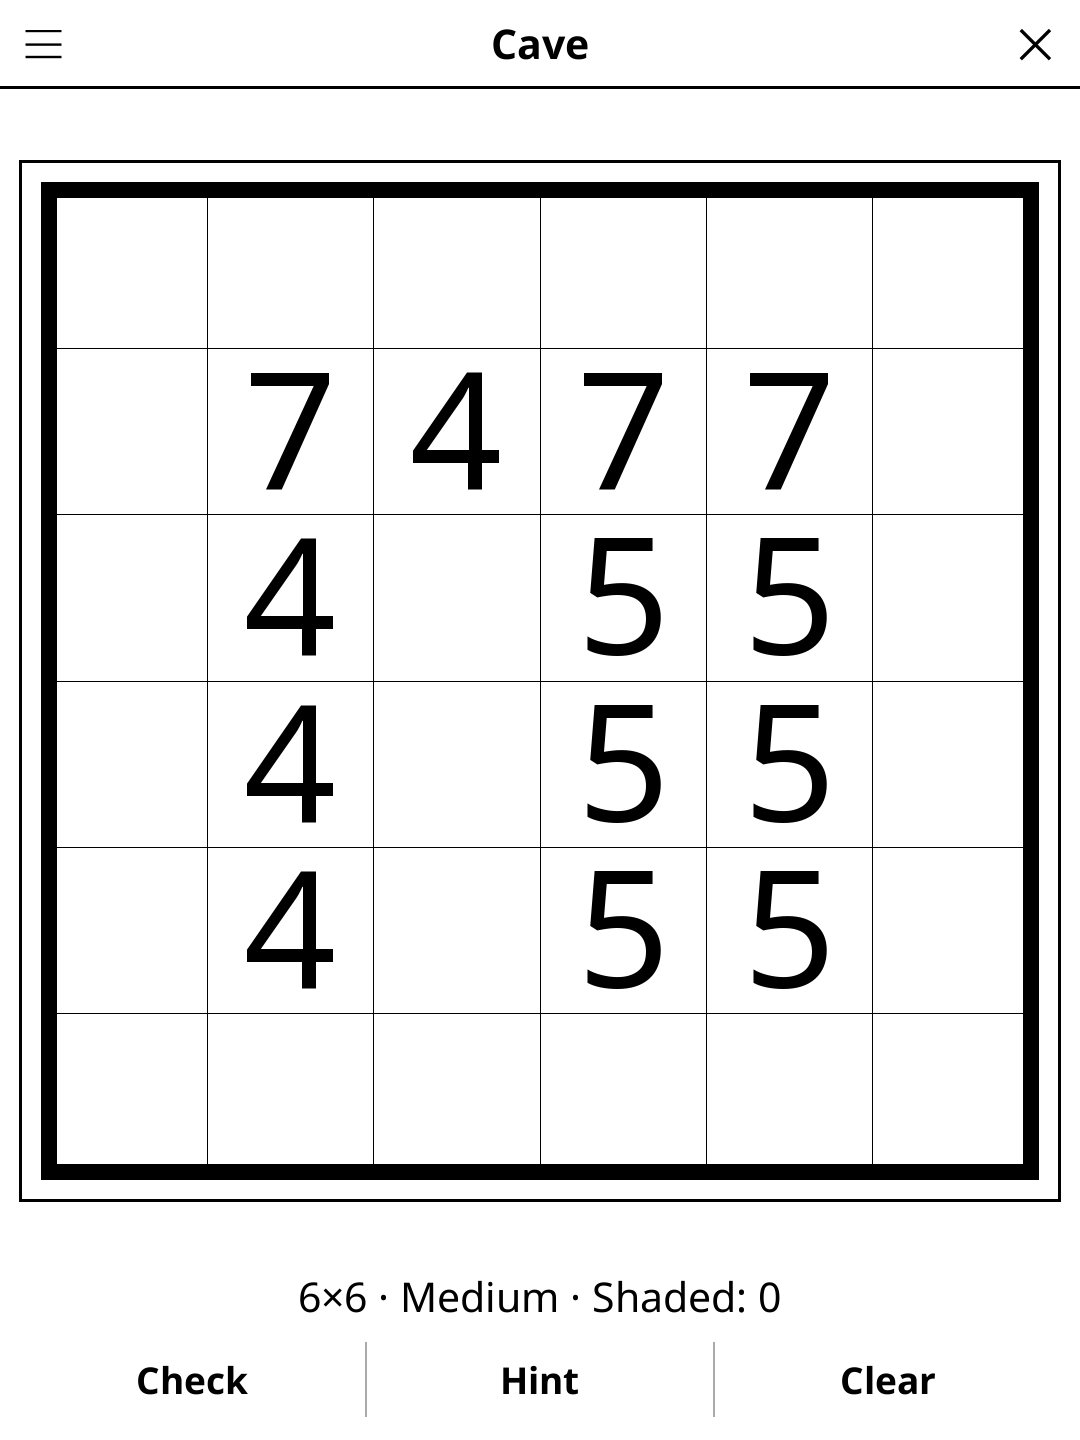
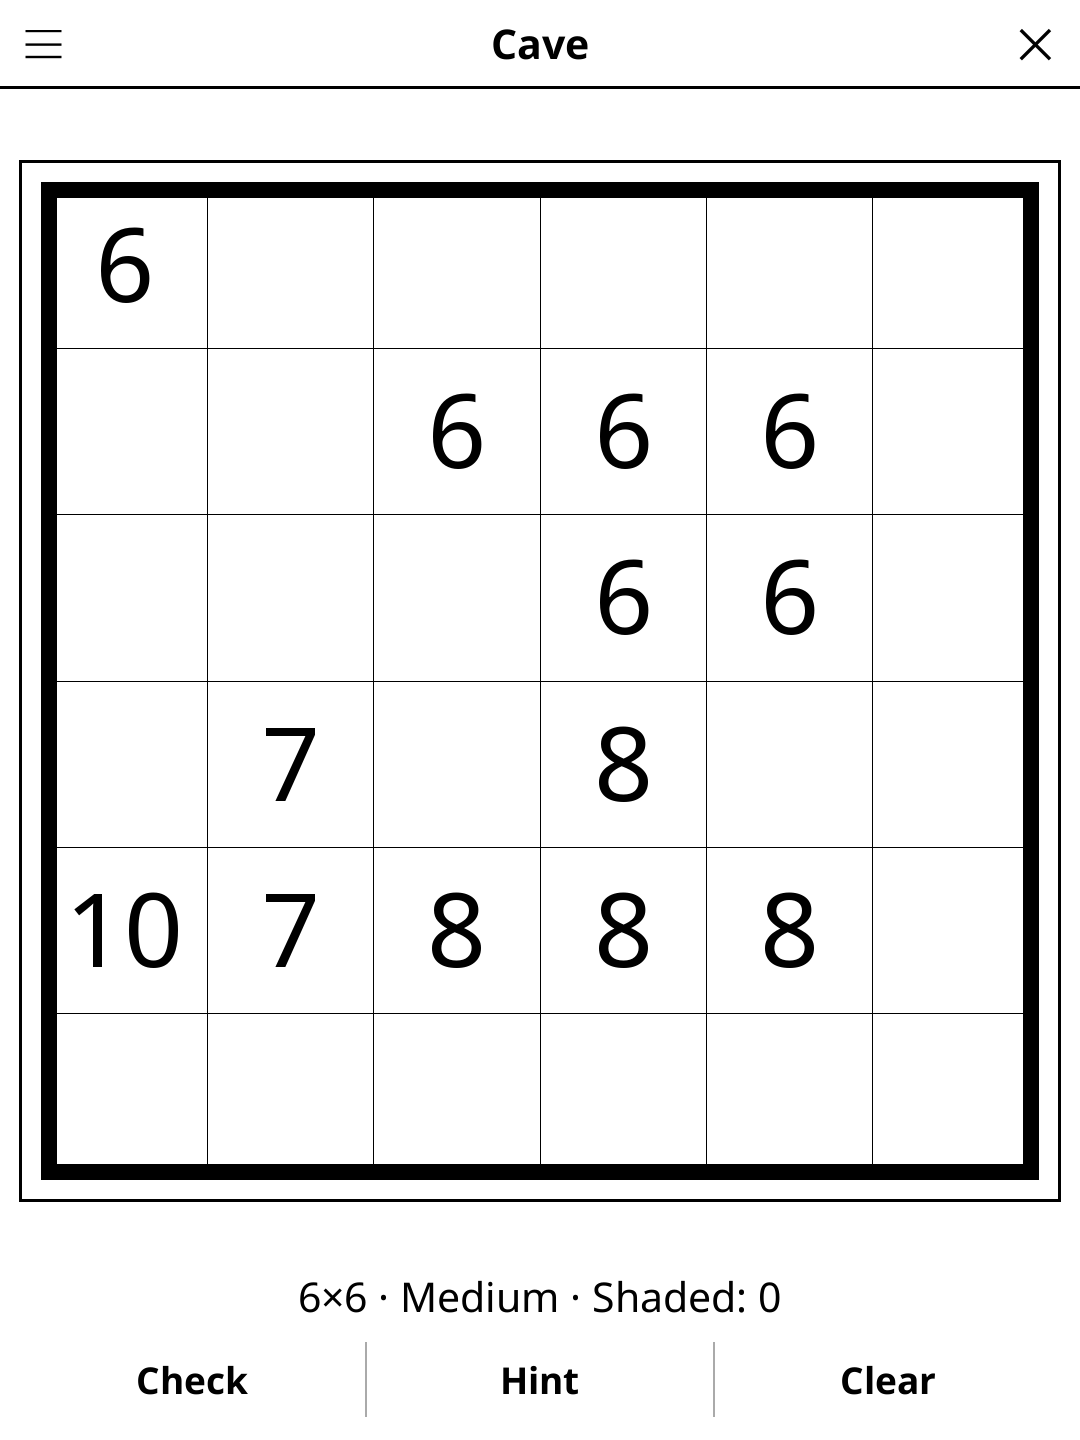
release: 1.6.1 -- Two-digit clues (10 and more, possible from 6×6) spilled over the…
See CHANGELOG.md.

diff --git a/CHANGELOG.md b/CHANGELOG.md
@@ -2,6 +2,18 @@
 
 All notable changes to this project will be documented in this file.
 
+## [1.6.1] - 2026-11-04
+
+### Fixed
+- Two-digit clues (10 and more, possible from 6×6) spilled over the cell's
+  left edge: the number size is now chosen for the widest clue on the board.
+- README screenshot regenerated from the current generator (the old one
+  still showed the always-black border of 1.5.x).
+
+### Changed
+- Uses less memory: the game loads when you open it, not when KOReader
+  starts, so it no longer takes memory or startup time while unplayed.
+
 ## [1.6.0] - 2026-11-04
 
 ### Changed
@@ -97,7 +109,6 @@ All notable changes to this project will be documented in this file.
   KOReader's `gettext`, which knows nothing of this plugin's strings, so the
   menu label stayed English while the game's own screen, which goes through
   `i18n`, was translated. `_` now comes from `i18n` here too.
-
 
 ## [1.2.1] - 2026-10-01
 
